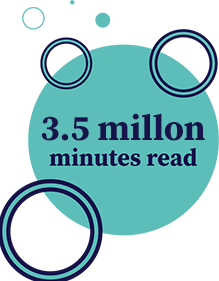
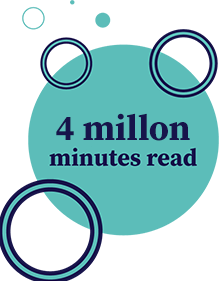
4 million minutes

Changed region(s): [[0.1918, 0.3986, 0.9315, 0.5125]]

diff --git a/summer-reading/index.html b/summer-reading/index.html
@@ -623,9 +623,9 @@ height="0" width="0" style="display:none;visibility:hidden"></iframe>
           </div>
         </div>
         <div class="meter-box boxes"><img class="img-responsive image-center" src="minutes.png" alt="Goal Meter"></div>
-        <div class="hidden-md hidden-sm hidden-xs fish-box boxes swimming"><img class="img-responsive image-center" src="fewer-fish.png" alt="Fish"></div>
-        <div class="fish-box boxes swimming"><img class="img-responsive image-center" src="fish.png" alt="Fish"></div>
-        <div class="hidden-xs fish-box boxes swimming"><img class="img-responsive image-center" src="few-fish.png" alt="Fish"></div>
+        <div class="hidden-md hidden-sm hidden-xs fish-box boxes swimming"><img class="image-center" src="fewer-fish.png" alt="Fish"></div>
+        <div class="fish-box boxes swimming"><img class="image-center" src="fish.png" alt="Fish"></div>
+        <div class="hidden-xs fish-box boxes swimming"><img class="image-center" src="few-fish.png" alt="Fish"></div>
       </div>
       <div class="large-text text-center hidden-md hidden-lg padding-30">
         <div>Watch our school of fish grow and help us meet our goal. If we meet our goal, the <a class="text-underline" href="../foundation/">Douglas County Libraries Foundation</a> will donate $1000 to the COVID-19 Recovery Fund through the Douglas County Community Foundation (DCCF).</div>
